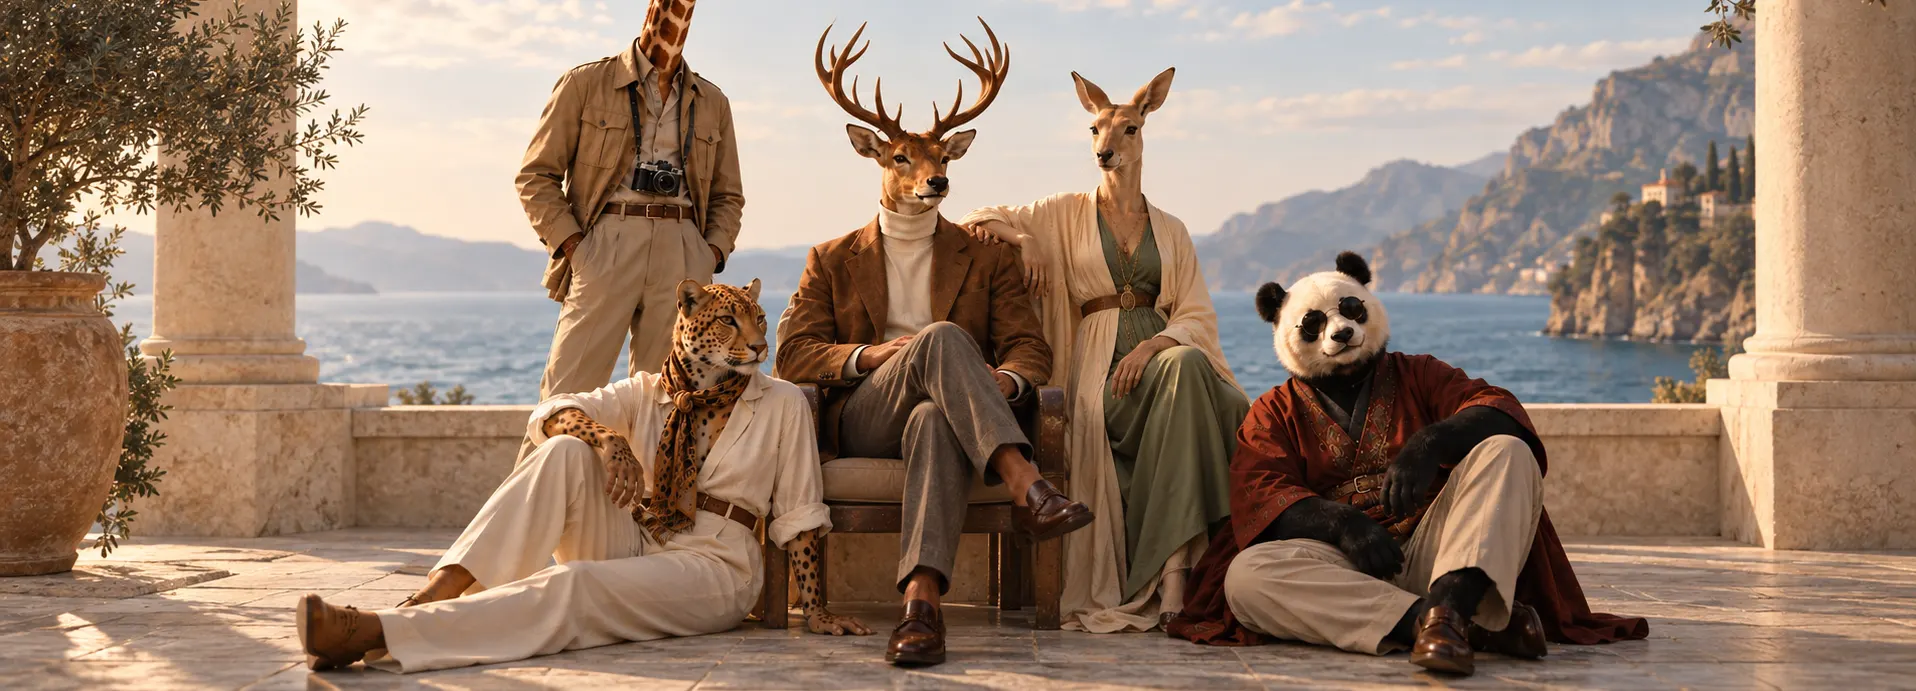
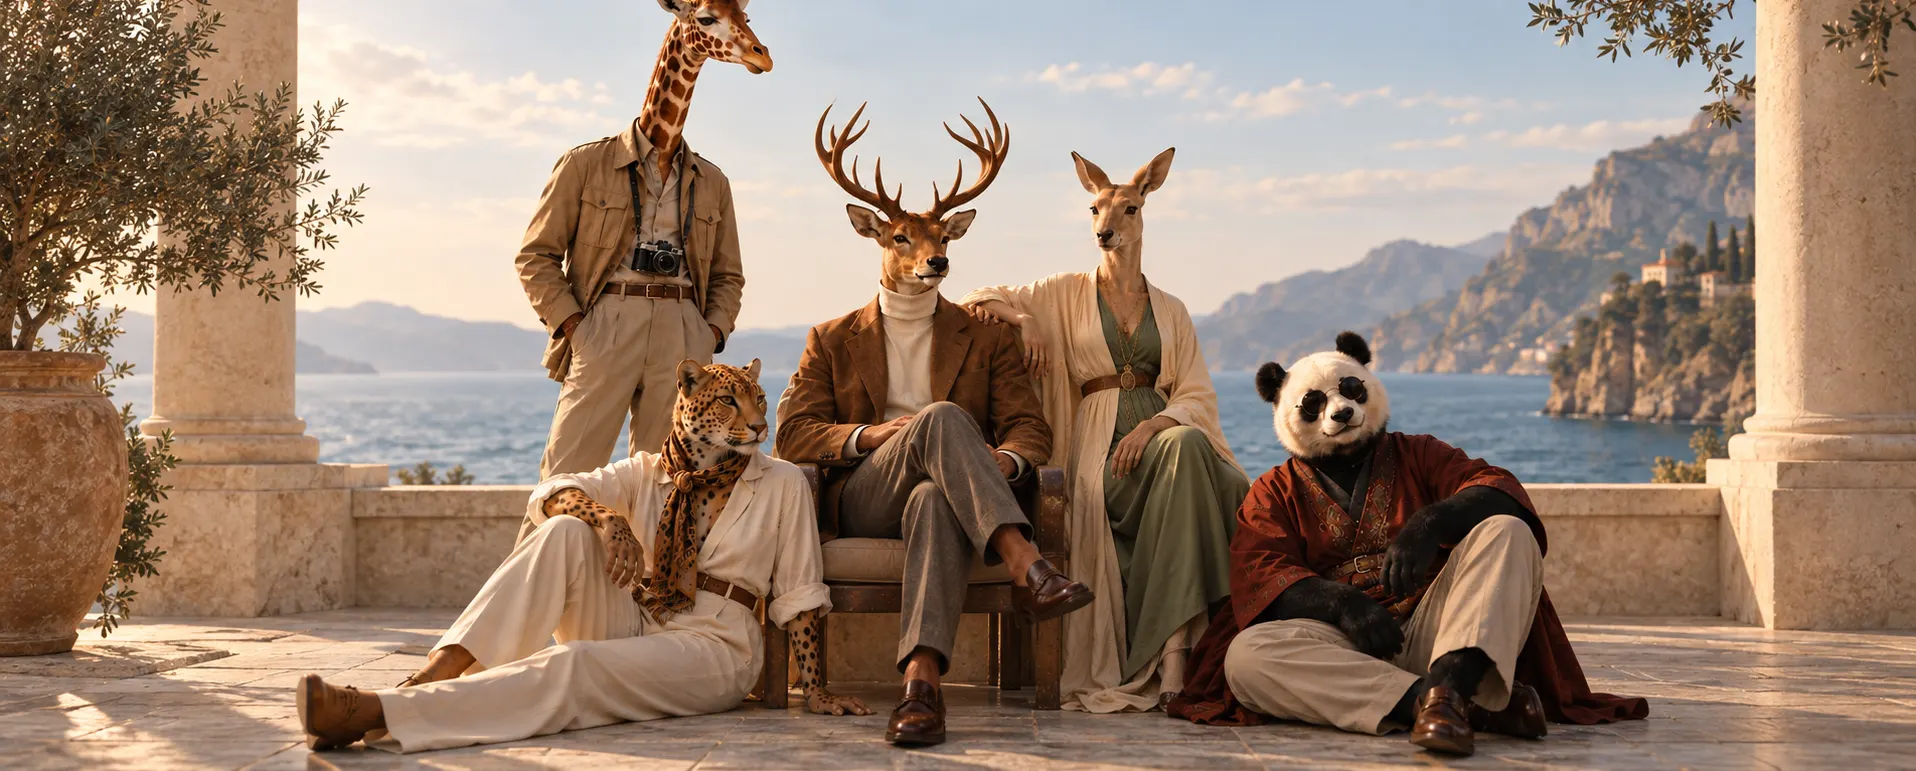
fase-1: 1.13 home escritorio, la jirafa sobresale menos y se alinea con su cuello

diff --git a/src/styles/tokens.css b/src/styles/tokens.css
@@ -70,7 +70,7 @@
   --home-overview-side-padding: 6.7vw;
 
   --home-banner-ratio: 1.8;
-  --home-photo-ratio: 2.7332;
+  --home-photo-ratio: 2.485;
   --home-cutout-width-share: 0.1044;
   --home-cutout-right-share: 0.572;
   --home-banner-title-overlap: 1.5rem;

diff --git a/docs/decisiones-tecnicas.md b/docs/decisiones-tecnicas.md
@@ -226,10 +226,12 @@ La Home usa el mismo esquema que Perspectives y About: el `main` lleva `panel-pa
 
 ## Home en escritorio: la cabeza de la jirafa entra en la cabecera
 
-- **Imágenes.** `npm run prepare:home` genera tres WebP en `public/home/` a partir del original: `hero-home.webp` (foto completa, móvil), `hero-home-desktop.webp` (sin la franja de arriba, 130 px del original) y `jirafa-cabeza.webp` (esa franja, con fondo transparente). El recorte separa la jirafa del cielo por color (el cielo es azul y gris, con R menor o igual que B; la jirafa es naranja y crema), cierra huecos, rellena el interior, deja solo la figura más grande y suaviza el borde. Si el original o el corte cambian, hay que volver a correr el script y actualizar `--home-photo-ratio`, `--home-cutout-width-share` y `--home-cutout-right-share` (salen del tamaño de la franja y de su posición en la foto).
+- **Imágenes.** `npm run prepare:home` genera tres WebP en `public/home/` a partir del original: `hero-home.webp` (foto completa, móvil), `hero-home-desktop.webp` (sin la franja de arriba, 50 px del original) y `jirafa-cabeza.webp` (esa franja, con fondo transparente: solo los cuernos y la parte alta de las orejas, para que la cabeza sobresalga lo justo, hasta debajo de los enlaces de la cabecera). El recorte separa la jirafa del cielo por color (el cielo es azul y gris, con R menor o igual que B; la jirafa es naranja y crema), cierra huecos, rellena el interior, deja solo la figura más grande y suaviza el borde. Si el original o el corte cambian, hay que volver a correr el script y actualizar `--home-photo-ratio`, `--home-cutout-width-share` y `--home-cutout-right-share` (salen del tamaño de la franja y de su posición en la foto).
 - **Dos fotos según el ancho.** `page.tsx` usa `getImageProps` de `next/image` con `<picture>` (dirección de arte): la completa abajo de `lg` y la de escritorio desde `lg`. En móvil no hay cambios.
 - **Geometría.** En escritorio el banner tiene alto fijo (`--home-banner-height`, 26rem) y la foto mide ese alto, con su ancho por proporción y pegada a la derecha, sin recorte. Así la cabeza cae siempre sobre su cuello: `.home-cutout` toma su ancho y su distancia al borde derecho de esas mismas medidas, y su base queda en el borde de arriba del banner (`top: 0` con `translateY(-100%)`) y por encima de la cabecera (`z-index: 60`, la cabecera usa 50).
 - **Por qué va fuera del contenedor con scroll.** `.panel-scroll` recorta lo que se sale por arriba, así que `HomeHeadCutout` (cliente) es hermano del contenedor y lo acompaña: se desplaza y se desvanece con el scroll (se apaga a los 80 px) para no quedar flotando sobre la cabecera. Es decorativa (`aria-hidden`) y con `pointer-events: none`. Sin JavaScript la cabeza queda fija en la cabecera.
 - **Barra de desplazamiento oculta en la Home (escritorio).** `scrollbar-width: none` en `.home-page .panel-scroll`, para que el banner mida lo mismo que la cabecera y la cabeza no se corra por el ancho de la barra. Se sigue desplazando con rueda, teclado y táctil.
 - **Foto más angosta.** Con el alto fijo y la foto sin recorte, abajo de 1137 px de ancho (a 26rem de alto) su borde izquierdo queda fuera de pantalla; ahí manda el desvanecido de la foto.
 - **Sin probar en navegador** (falta `.env.local`); solo se comprobó el recorte y la posición con una composición hecha con sharp. Revisar a 1024, 1280 y 1440 px, y al hacer scroll.
+
+- **Ajuste de alineación.** `--home-photo-ratio` debe ser el ancho entre el alto de `hero-home-desktop.webp` (1916 por 771, 2.485). Con un valor que no coincide, `object-fit: cover` recorta los lados de la foto y la cabeza queda corrida respecto de su cuello (pasó con 2.7332, calculado para otro corte).
